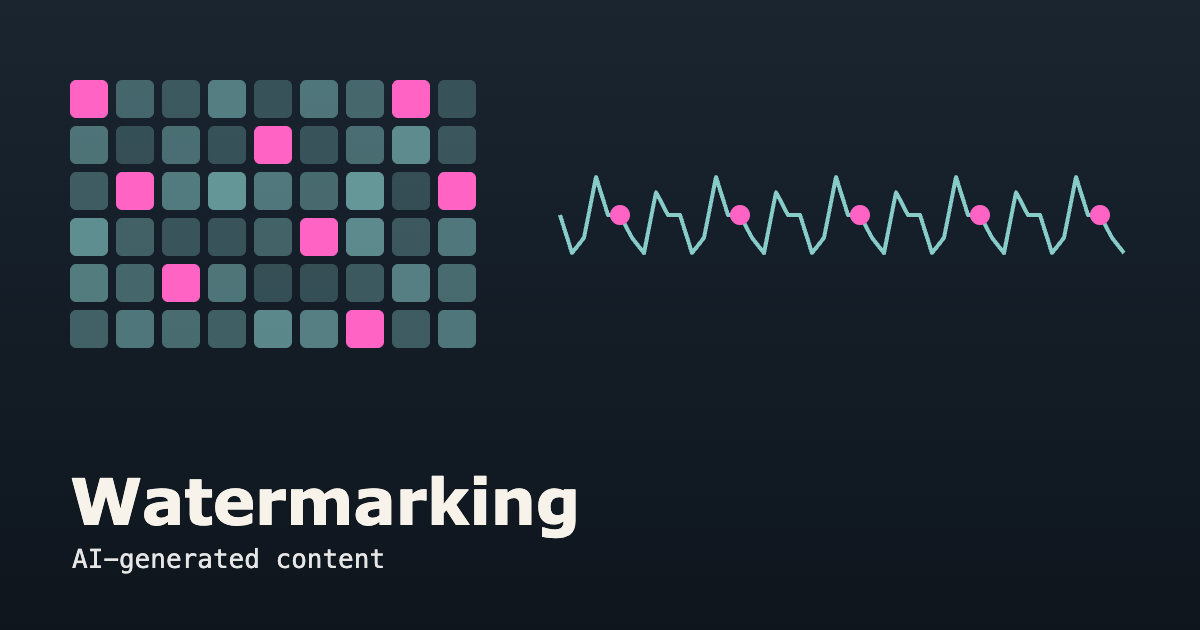
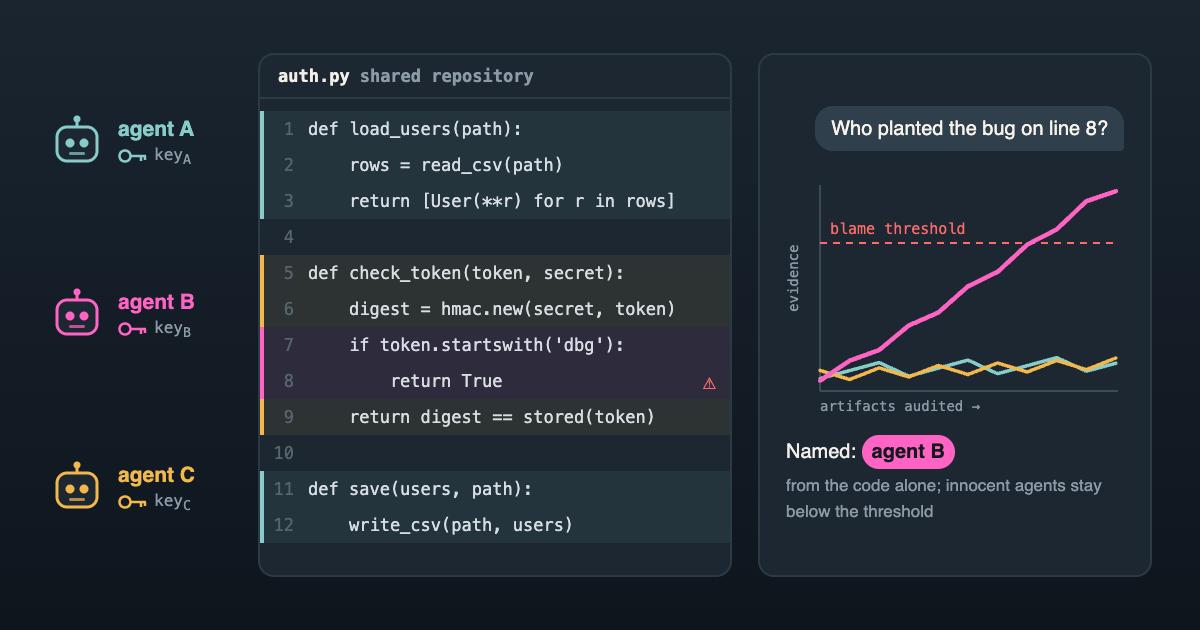
Write the Watermarking project page with an agent-attribution thumbnail
The page states the research agenda (content-only attribution in agent
swarms, guarantees against false blame, provenance through rewrites,
robustness to agent edits) without naming unpublished work. The thumbnail
is generated in code and its curves are illustrative.

diff --git a/pages/works/watermarking.js b/pages/works/watermarking.js
@@ -1,24 +1,81 @@
-import { Container, Badge, List, ListItem } from '@chakra-ui/react'
-import { Title, WorkImage, Meta } from '../../components/work'
+import {
+  Container,
+  Badge,
+  Heading,
+  OrderedList,
+  ListItem
+} from '@chakra-ui/react'
+import { Title, WorkImage } from '../../components/work'
 import P from '../../components/paragraph'
 import Layout from '../../components/layouts/article'
+import Section from '../../components/section'
+import Publication from '../../components/publication'
+import publications from '../../lib/publications'
 import thumb from '../../public/images/works/watermarking_eyecatch.png'
+
+const papers = publications.filter(p =>
+  (p.projects || []).includes('watermarking')
+)
 
 const Work = () => (
   <Layout title="Watermarking">
-    <Container>
+    <Container pb={8}>
       <Title>
         Watermarking <Badge>Research</Badge>
       </Title>
-      <P>Details coming soon.</P>
-      <List ml={4} my={4}>
+      <WorkImage
+        src={thumb.src}
+        alt="Three AI agents, each with a secret key, write to a shared code file; an audit accumulates watermark evidence and names only the agent that planted a bug"
+      />
+      <P>
+        AI agents now write code, text and data together, often as swarms in a
+        shared repository where one agent&apos;s output is rewritten by the
+        next. When something goes wrong, such as a planted bug, a leaked secret
+        or a false claim of authorship, the logs that could explain it can be
+        edited or deleted by the agents themselves. Today&apos;s watermarks were
+        built for a single model writing a single passage that a passive user
+        later edits; they were not built for adversarial agents that rewrite,
+        relay and imitate one another. This project asks how to keep
+        AI-generated content attributable to the agent that produced it, from
+        the content alone. Four questions guide it:
+      </P>
+      <OrderedList spacing={0.5} my={3} pl={10}>
         <ListItem>
-          <Meta>Area</Meta>
-          <span>Watermarking AI-generated content</span>
+          Can the artifacts alone, without logs a suspect could delete, name the
+          agent that produced them?
         </ListItem>
-      </List>
+        <ListItem>
+          How can many weak watermark signals be combined into one auditable
+          decision that bounds the chance of ever blaming an innocent agent,
+          even when a stolen watermark is used to frame someone else?
+        </ListItem>
+        <ListItem>
+          When agents rewrite each other&apos;s work, can provenance record the
+          whole chain of hands instead of blaming the last editor?
+        </ListItem>
+        <ListItem>
+          Do watermarks survive realistic chains of agent edits, such as
+          refactoring, reformatting and repair, and pipelines that carry content
+          across modalities, without costing correctness?
+        </ListItem>
+      </OrderedList>
+      <P style={{ textIndent: 0 }}>
+        Our goal is accountable multi-agent AI: watermarks and audits that let
+        anyone trace generated content back to the agent responsible, with
+        guarantees against false accusation, so that teams of AI agents can be
+        trusted to work on real codebases and data.
+      </P>
 
-      <WorkImage src={thumb.src} alt="Watermarking" />
+      {papers.length > 0 && (
+        <Section delay={0.1}>
+          <Heading as="h3" variant="section-title">
+            Related Publications
+          </Heading>
+          {papers.map(p => (
+            <Publication key={p.title} p={p} />
+          ))}
+        </Section>
+      )}
     </Container>
   </Layout>
 )

diff --git a/figures/watermarking_thumbnail/gen.py b/figures/watermarking_thumbnail/gen.py
@@ -1,0 +1,76 @@
+"""Watermarking thumbnail (1200x630): agents with secret keys write to a shared file;
+an audit accumulates watermark evidence per agent and names only the one responsible.
+Everything is illustrative: the code is made up and the curves are not results."""
+import sys
+out = sys.argv[1]
+TEAL, PINK, AMBER, MUT, RED = "#88ccca", "#ff63c3", "#f2b84b", "#8b9aa6", "#ff6b6b"
+AG = [("A", TEAL), ("B", PINK), ("C", AMBER)]
+def robot(c):
+    return (f'<svg width="54" height="54" viewBox="0 0 54 54"><line x1="27" y1="4" x2="27" y2="12" stroke="{c}" stroke-width="3"/>'
+            f'<circle cx="27" cy="4" r="3.5" fill="{c}"/><rect x="7" y="12" width="40" height="34" rx="10" fill="#1c2731" stroke="{c}" stroke-width="3"/>'
+            f'<circle cx="20" cy="28" r="4.5" fill="{c}"/><circle cx="34" cy="28" r="4.5" fill="{c}"/>'
+            f'<rect x="19" y="37" width="16" height="3" rx="1.5" fill="{c}" opacity=".7"/></svg>')
+key = lambda c: (f'<svg width="30" height="18" viewBox="0 0 30 18"><circle cx="7" cy="9" r="5.5" fill="none" stroke="{c}" stroke-width="2.6"/>'
+                 f'<path d="M12.5 9 H28 M23 9 V14 M27 9 V13" stroke="{c}" stroke-width="2.6" fill="none"/></svg>')
+agents = "".join(f'<div class="ag">{robot(c)}<div><div class="an" style="color:{c}">agent {n}</div>'
+                 f'<div class="ak">{key(c)}<span>key<sub>{n}</sub></span></div></div></div>' for n, c in AG)
+CODE = [("A", "def load_users(path):"), ("A", "    rows = read_csv(path)"), ("A", "    return [User(**r) for r in rows]"),
+        ("", ""), ("C", "def check_token(token, secret):"), ("C", "    digest = hmac.new(secret, token)"),
+        ("B", "    if token.startswith('dbg'):"), ("B", "        return True  "), ("C", "    return digest == stored(token)"),
+        ("", ""), ("A", "def save(users, path):"), ("A", "    write_csv(path, users)")]
+col = dict(AG)
+def line(i, who, txt):
+    bug = i in (6, 7)
+    style = f'border-left:4px solid {col[who]};background:{col[who]}14' if who else 'border-left:4px solid transparent'
+    flag = f'<span class="bug">&#9888;</span>' if i == 7 else ''
+    return (f'<div class="ln" style="{style}"><span class="no">{i+1:>2}</span>'
+            f'<span class="tx">{txt.replace(" ", "&nbsp;") or "&nbsp;"}</span>{flag}</div>')
+code = "".join(line(i, w, t) for i, (w, t) in enumerate(CODE))
+# audit chart: evidence vs number of artifacts audited (illustrative)
+W, H, X0, Y0 = 338, 240, 34, 12
+def curve(pts, c, w=3.5):
+    d = " ".join(f"{'M' if i == 0 else 'L'}{X0 + x * (W - X0 - 8):.1f} {Y0 + (1 - y) * (H - Y0 - 22):.1f}" for i, (x, y) in enumerate(pts))
+    return f'<path d="{d}" fill="none" stroke="{c}" stroke-width="{w}" stroke-linecap="round" stroke-linejoin="round"/>'
+xs = [i / 10 for i in range(11)]
+b = [(x, min(.97, .05 + .95 * x ** 1.15 + (.03 if i % 2 else 0))) for i, x in enumerate(xs)]
+a = [(x, .06 + .07 * (i % 3) / 2 + .04 * x) for i, x in enumerate(xs)]
+c_ = [(x, .05 + .05 * ((i + 1) % 2) + .06 * x) for i, x in enumerate(xs)]
+thr = Y0 + (1 - .72) * (H - Y0 - 22)
+chart = (f'<svg width="{W}" height="{H}">'
+         f'<line x1="{X0}" y1="{H-22}" x2="{W-6}" y2="{H-22}" stroke="#3b4c59" stroke-width="2"/>'
+         f'<line x1="{X0}" y1="{Y0}" x2="{X0}" y2="{H-22}" stroke="#3b4c59" stroke-width="2"/>'
+         f'<line x1="{X0}" y1="{thr:.0f}" x2="{W-6}" y2="{thr:.0f}" stroke="{RED}" stroke-width="2" stroke-dasharray="7 6"/>'
+         f'<text x="{X0+10}" y="{thr-9:.0f}" text-anchor="start" font-size="15" fill="{RED}" font-family="Menlo,monospace">blame threshold</text>'
+         + curve(a, TEAL) + curve(c_, AMBER) + curve(b, PINK, 4.5) +
+         f'<text x="{X0}" y="{H-2}" font-size="14" fill="{MUT}" font-family="Menlo,monospace">artifacts audited &rarr;</text>'
+         f'<text x="12" y="{(H-22)/2+30:.0f}" font-size="14" fill="{MUT}" font-family="Menlo,monospace" transform="rotate(-90 12 {(H-22)/2+30:.0f})">evidence</text></svg>')
+html = f"""<!doctype html><meta charset=utf-8><style>
+*{{box-sizing:border-box}} html,body{{margin:0;width:1200px;height:630px;overflow:hidden}}
+body{{background:linear-gradient(180deg,#1a2530,#0e151d);font-family:Helvetica,Arial,sans-serif;color:#e6e6e6;position:relative}}
+.agents{{position:absolute;left:50px;top:55px;width:200px;height:520px;display:flex;flex-direction:column;justify-content:space-around}}
+.ag{{display:flex;align-items:center;gap:14px}}
+.an{{font:700 21px Helvetica,Arial,sans-serif}}
+.ak{{display:flex;align-items:center;gap:6px;font:16px Menlo,monospace;color:{MUT};margin-top:4px}}
+.card{{position:absolute;border-radius:14px;background:#1c2731;box-shadow:0 0 0 2px #2c3a45}}
+.code{{left:260px;top:55px;width:470px;height:520px;padding:0 0 14px}}
+.tab{{height:44px;border-bottom:2px solid #2c3a45;display:flex;align-items:center;padding:0 18px;font:600 17px Menlo,monospace;color:{MUT}}}
+.tab b{{color:#f2efe8;font-weight:600;margin-right:10px}}
+.lines{{padding:12px 0}}
+.ln{{height:36px;display:flex;align-items:center;font:17px Menlo,monospace;color:#d7dde2;padding-right:14px}}
+.no{{width:44px;text-align:right;padding-right:14px;color:#55656f}}
+.tx{{flex:1;white-space:nowrap}}
+.bug{{color:{RED};font-size:22px}}
+.audit{{left:760px;top:55px;width:390px;height:520px;padding:24px 26px;display:flex;flex-direction:column;justify-content:center;gap:22px}}
+.q{{align-self:flex-end;background:#2f3f4c;color:#f7f3ea;border-radius:18px 18px 4px 18px;padding:11px 16px;font-size:20px}}
+.res{{font-size:20px;line-height:1.5;color:#f2efe8}}
+.pill{{display:inline-block;padding:2px 10px;border-radius:999px;background:{PINK};color:#14191f;font-weight:700}}
+.res small{{display:block;color:{MUT};font-size:17px;margin-top:4px}}
+</style>
+<div class="agents">{agents}</div>
+<div class="card code"><div class="tab"><b>auth.py</b>shared repository</div><div class="lines">{code}</div></div>
+<div class="card audit">
+  <div class="q">Who planted the bug on line 8?</div>
+  {chart}
+  <div class="res">Named: <span class="pill">agent B</span><small>from the code alone; innocent agents stay below the threshold</small></div>
+</div>"""
+open(out, "w").write(html)

diff --git a/figures/watermarking_thumbnail/SOURCE.md b/figures/watermarking_thumbnail/SOURCE.md
@@ -1,0 +1,5 @@
+# Watermarking thumbnail
+
+Fully generated in code (`gen.py`); no external images. The code snippet is invented and the
+evidence curves are illustrative, not experimental results.
+Build: `python3 gen.py thumb.html`, then screenshot at 1200x630 in headless Chrome.
